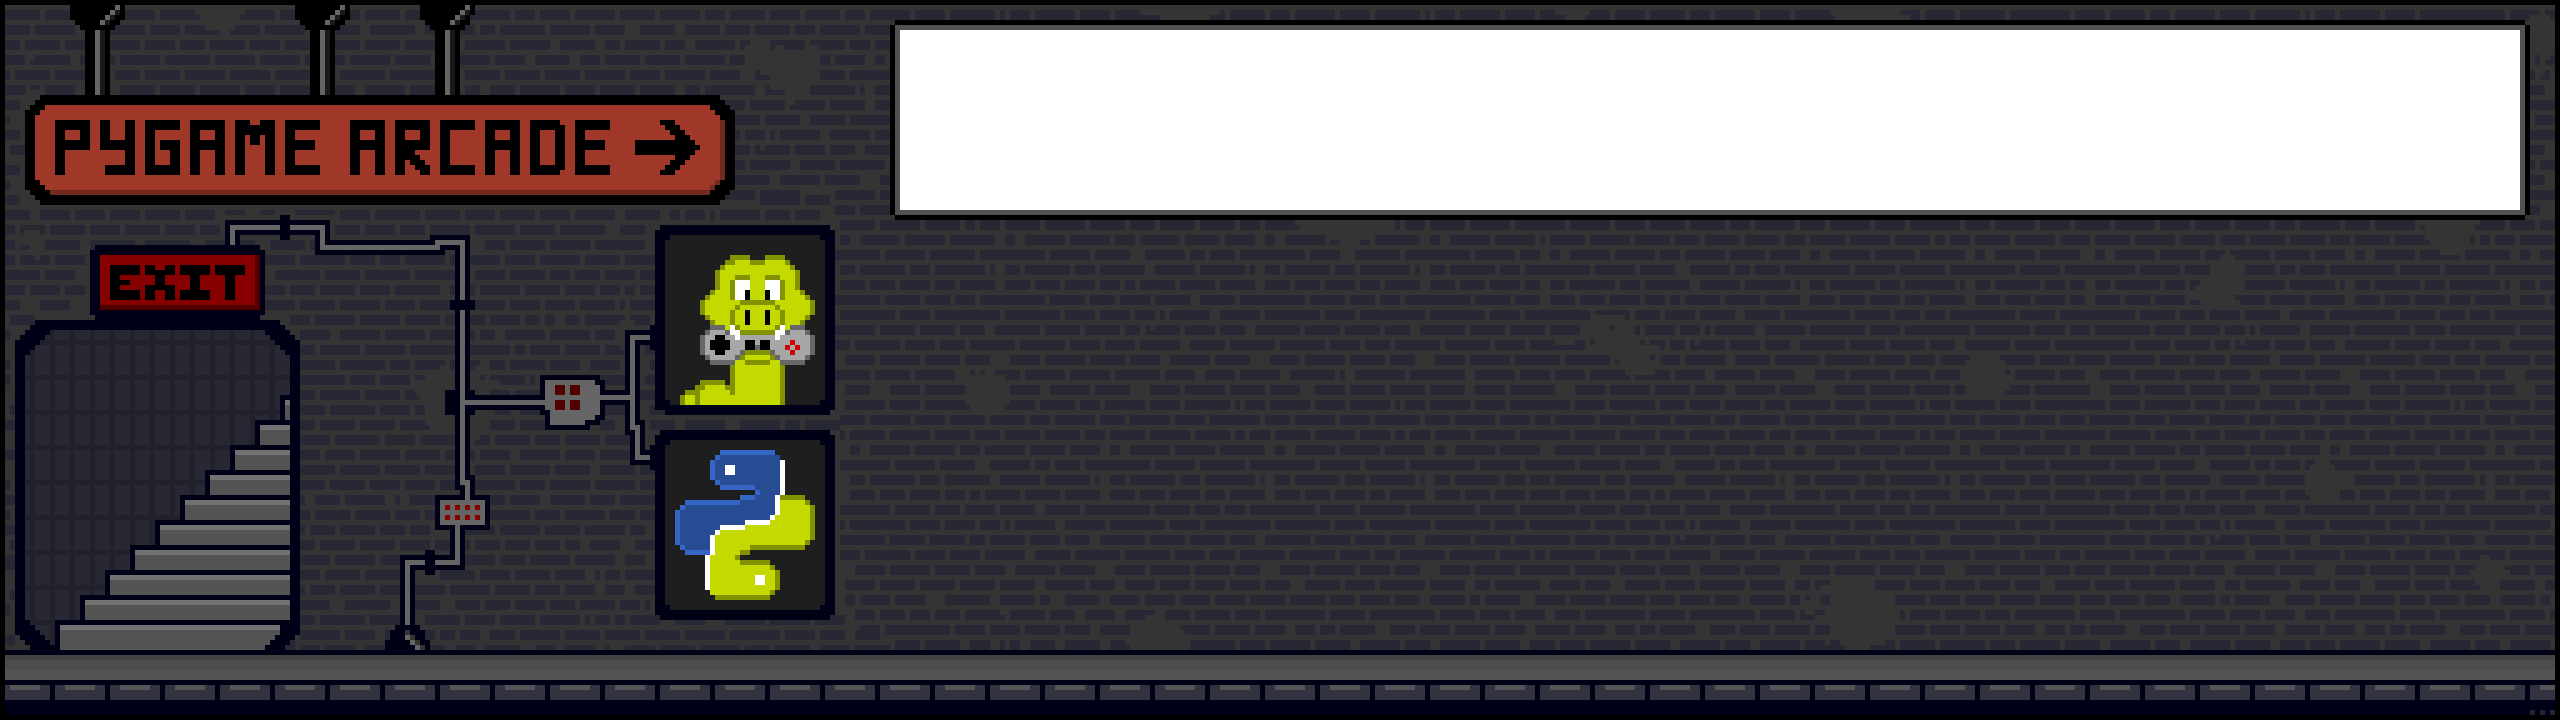
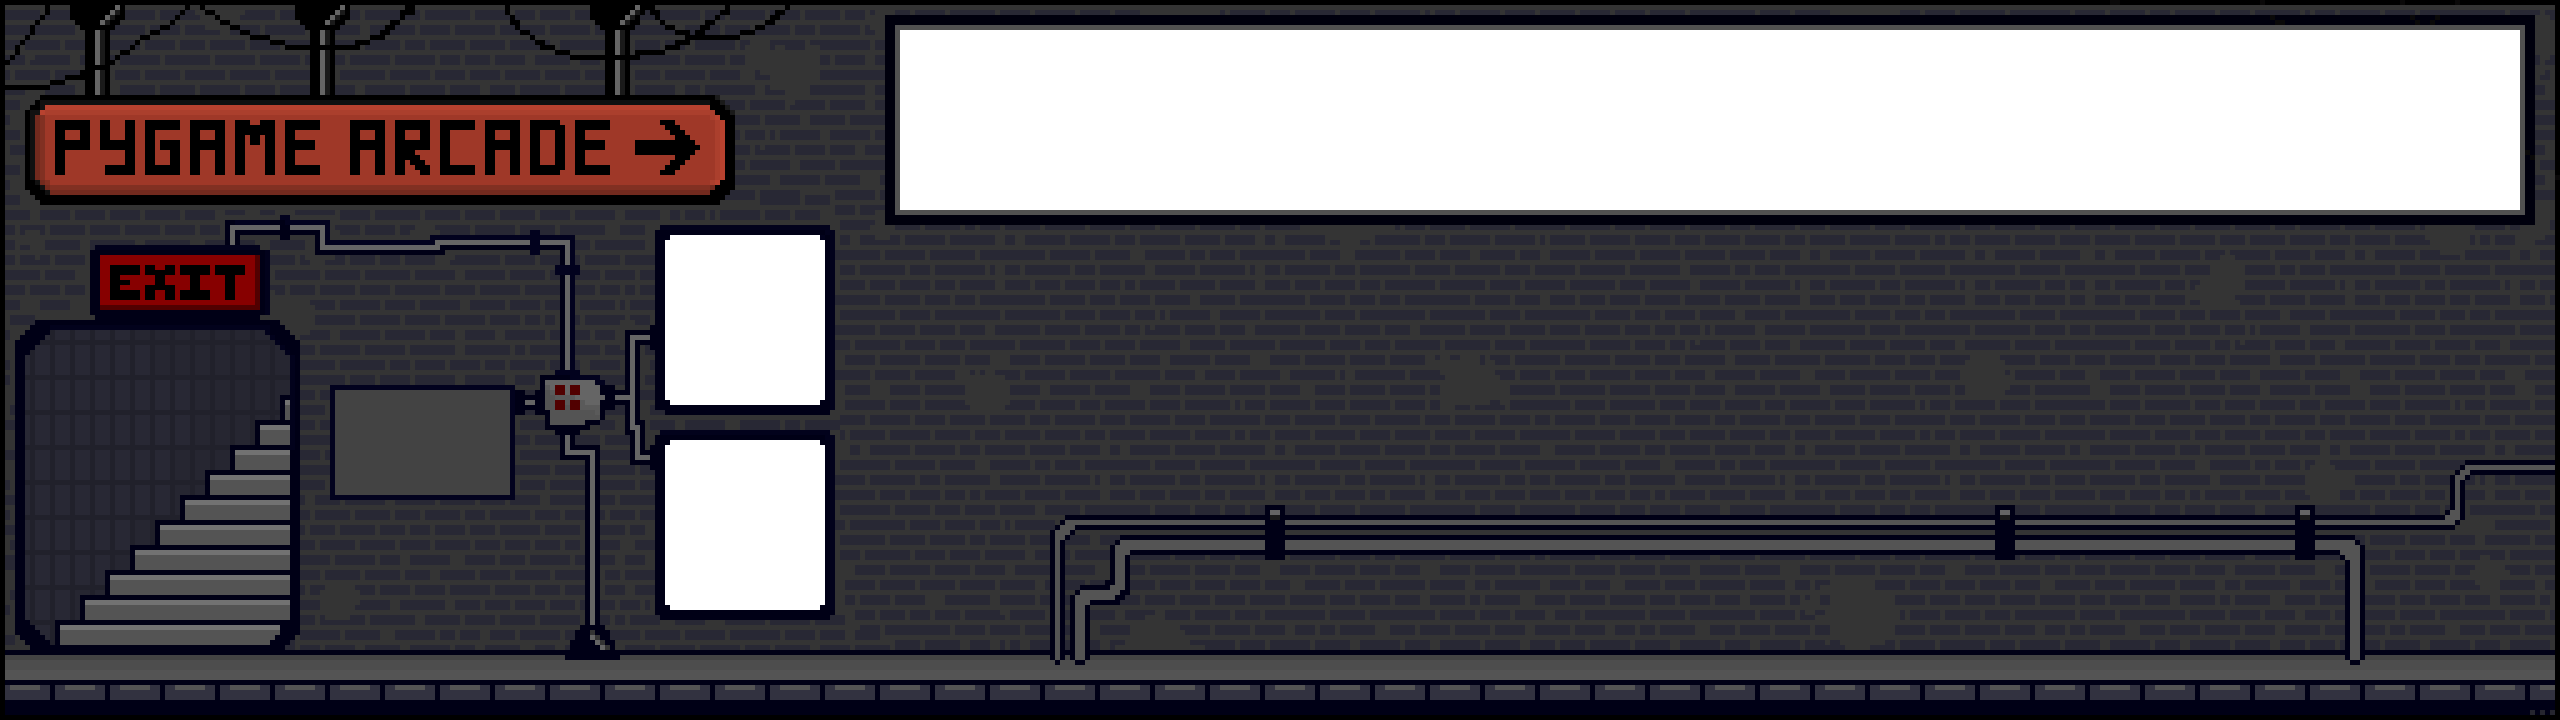
bg updated

diff --git a/src/scenes/arcade.py b/src/scenes/arcade.py
@@ -60,7 +60,7 @@ class Arcade(ViewportScene):
         self.focusable_items = []
 
         # Visual elements in arcade
-        self.add_child(Lamp(945, GROUND_PX_HEIGHT))
+        self.add_child(Lamp(900, GROUND_PX_HEIGHT))
         self.add_child(Trash(525, GROUND_PX_HEIGHT))
         self.add_child(PythonLogo(655, 430))  # 131, 86
         self.add_child(PygameSnake(655, 225))  # 131, 45
@@ -76,9 +76,10 @@ class Arcade(ViewportScene):
         posx = STARTING_X
         for game in GAME_NAMES:
             self.am_positions.append(posx)
-            arcade_machine = ArcadeMachine(posx, GROUND_PX_HEIGHT + 25, game, scale=0.3)
+            arcade_machine = ArcadeMachine(posx, GROUND_PX_HEIGHT + 25, game, scale=0.34)
             # self.arcade_machines.append(arcade_machine)
-            posx += randint(SPACING_LOW, SPACING_HIGH)
+            # posx += randint(SPACING_LOW, SPACING_HIGH)
+            posx += 200
             self.add_child(arcade_machine)
             self.focusable_items.append(arcade_machine)
 
